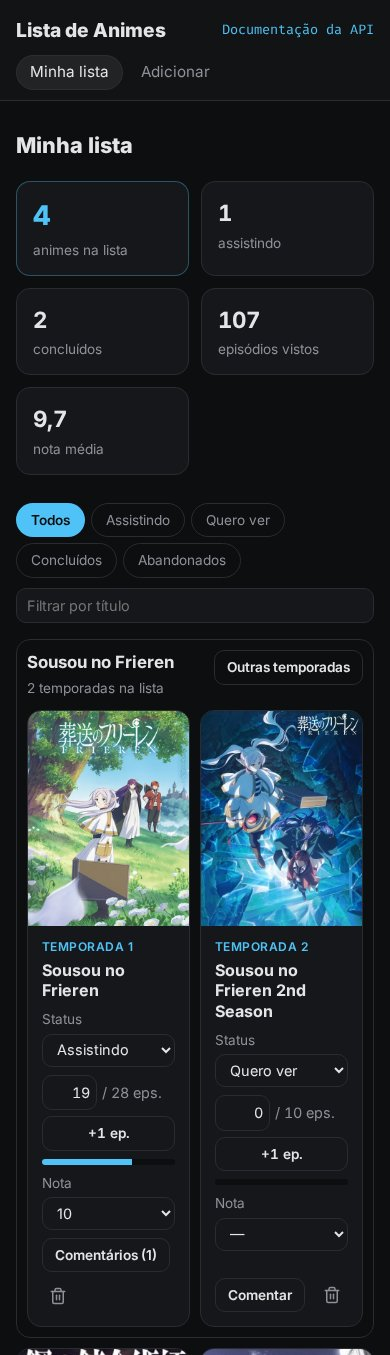
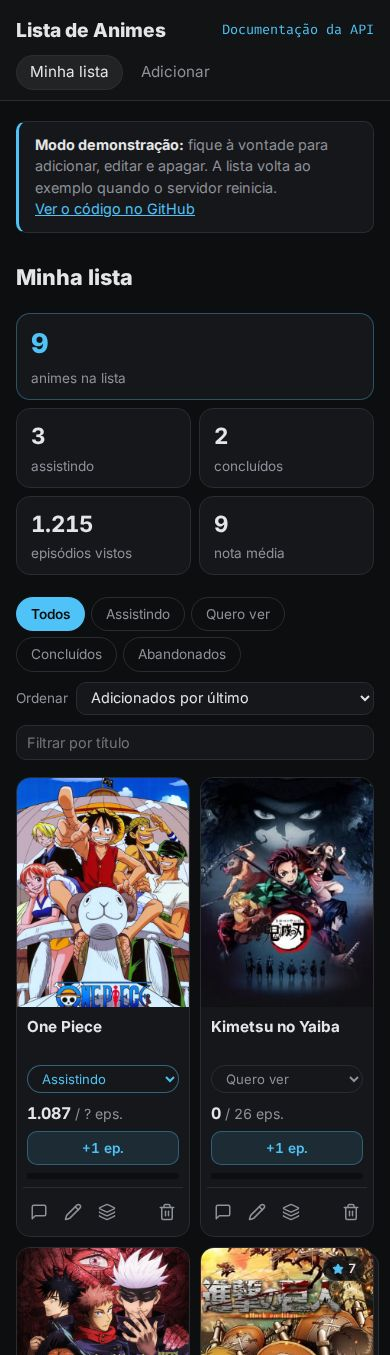
Atualiza o print do celular com os cartões novos

diff --git a/README.md b/README.md
@@ -29,7 +29,7 @@ API REST em Python com **FastAPI** para organizar sua lista de animes: o que voc
 - **Funciona no celular:** o layout se adapta a telas pequenas.
 
 <p align="center">
-  <img src="docs/celular.jpg" alt="Lista de Animes numa tela de celular: as abas Minha lista e Adicionar, as estatísticas, os filtros de status e o quadro do Frieren com a 1ª e a 2ª temporada, o campo do episódio e o botão de comentários" width="260">
+  <img src="docs/celular.jpg" alt="Lista de Animes numa tela de celular: as abas Minha lista e Adicionar, as estatísticas, os filtros de status e os cartões com capa, status, episódios, o botão +1 ep. e os ícones de comentar, editar, temporadas e remover" width="260">
 </p>
 
 ## Rotas da API
